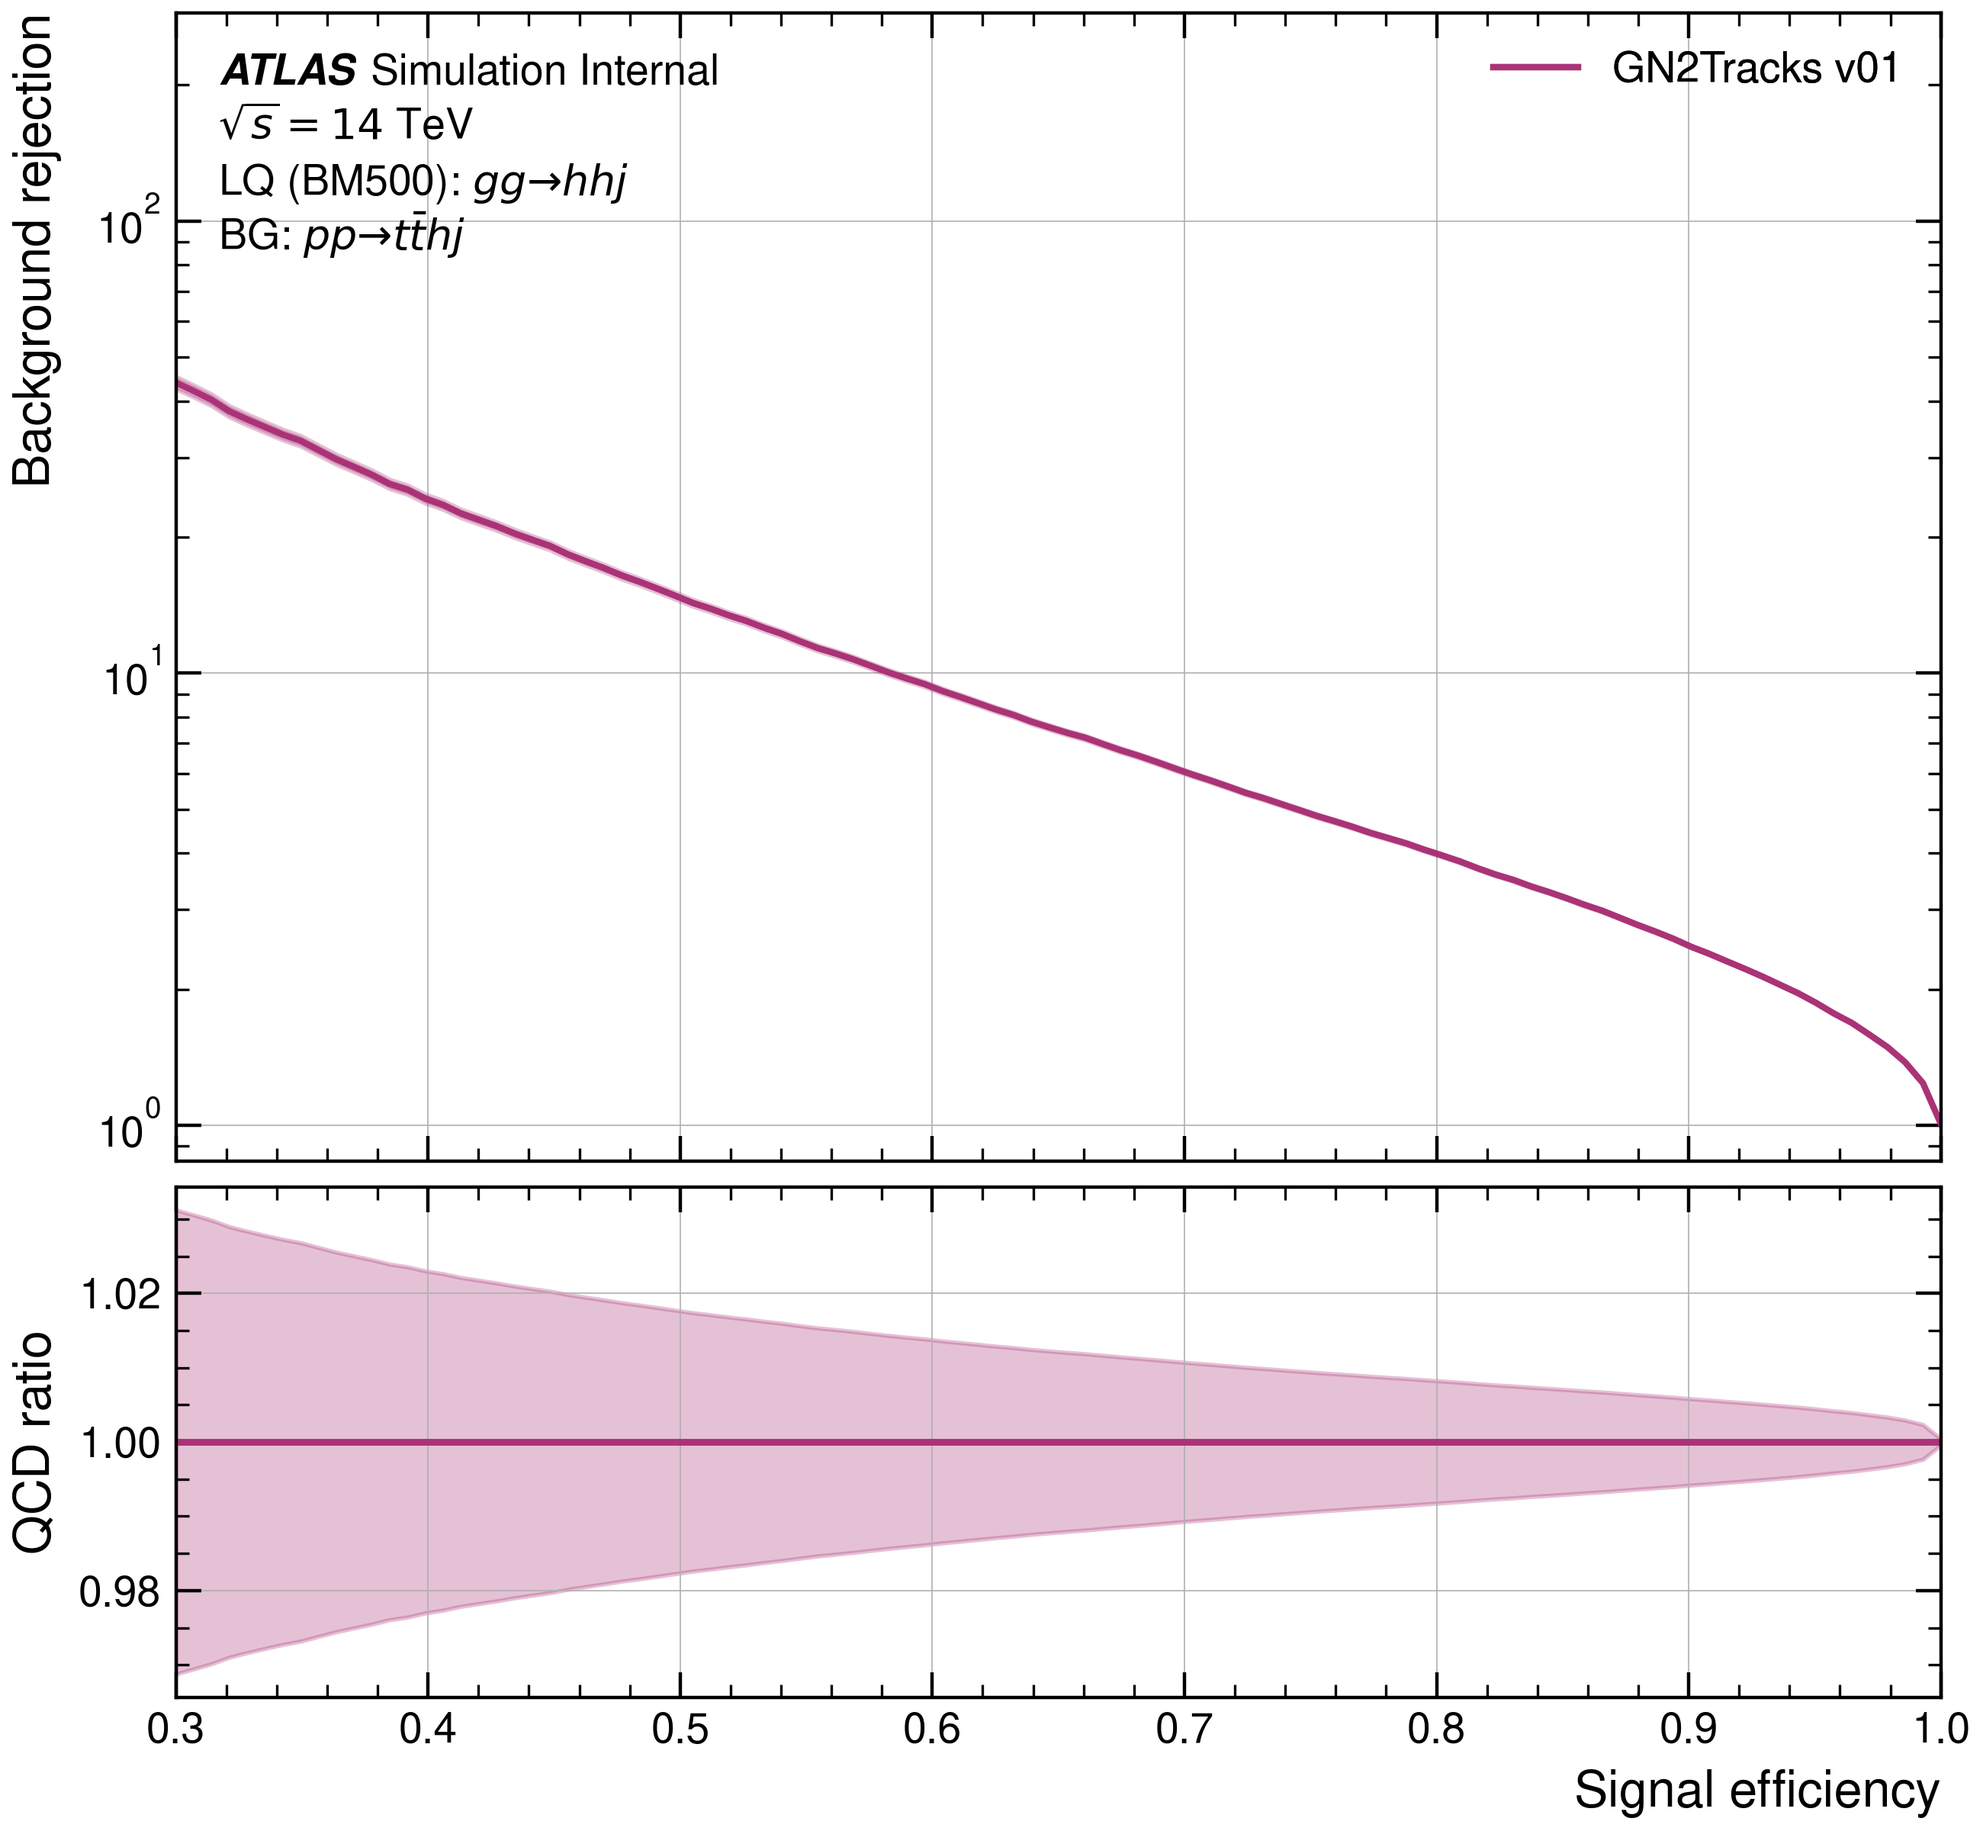
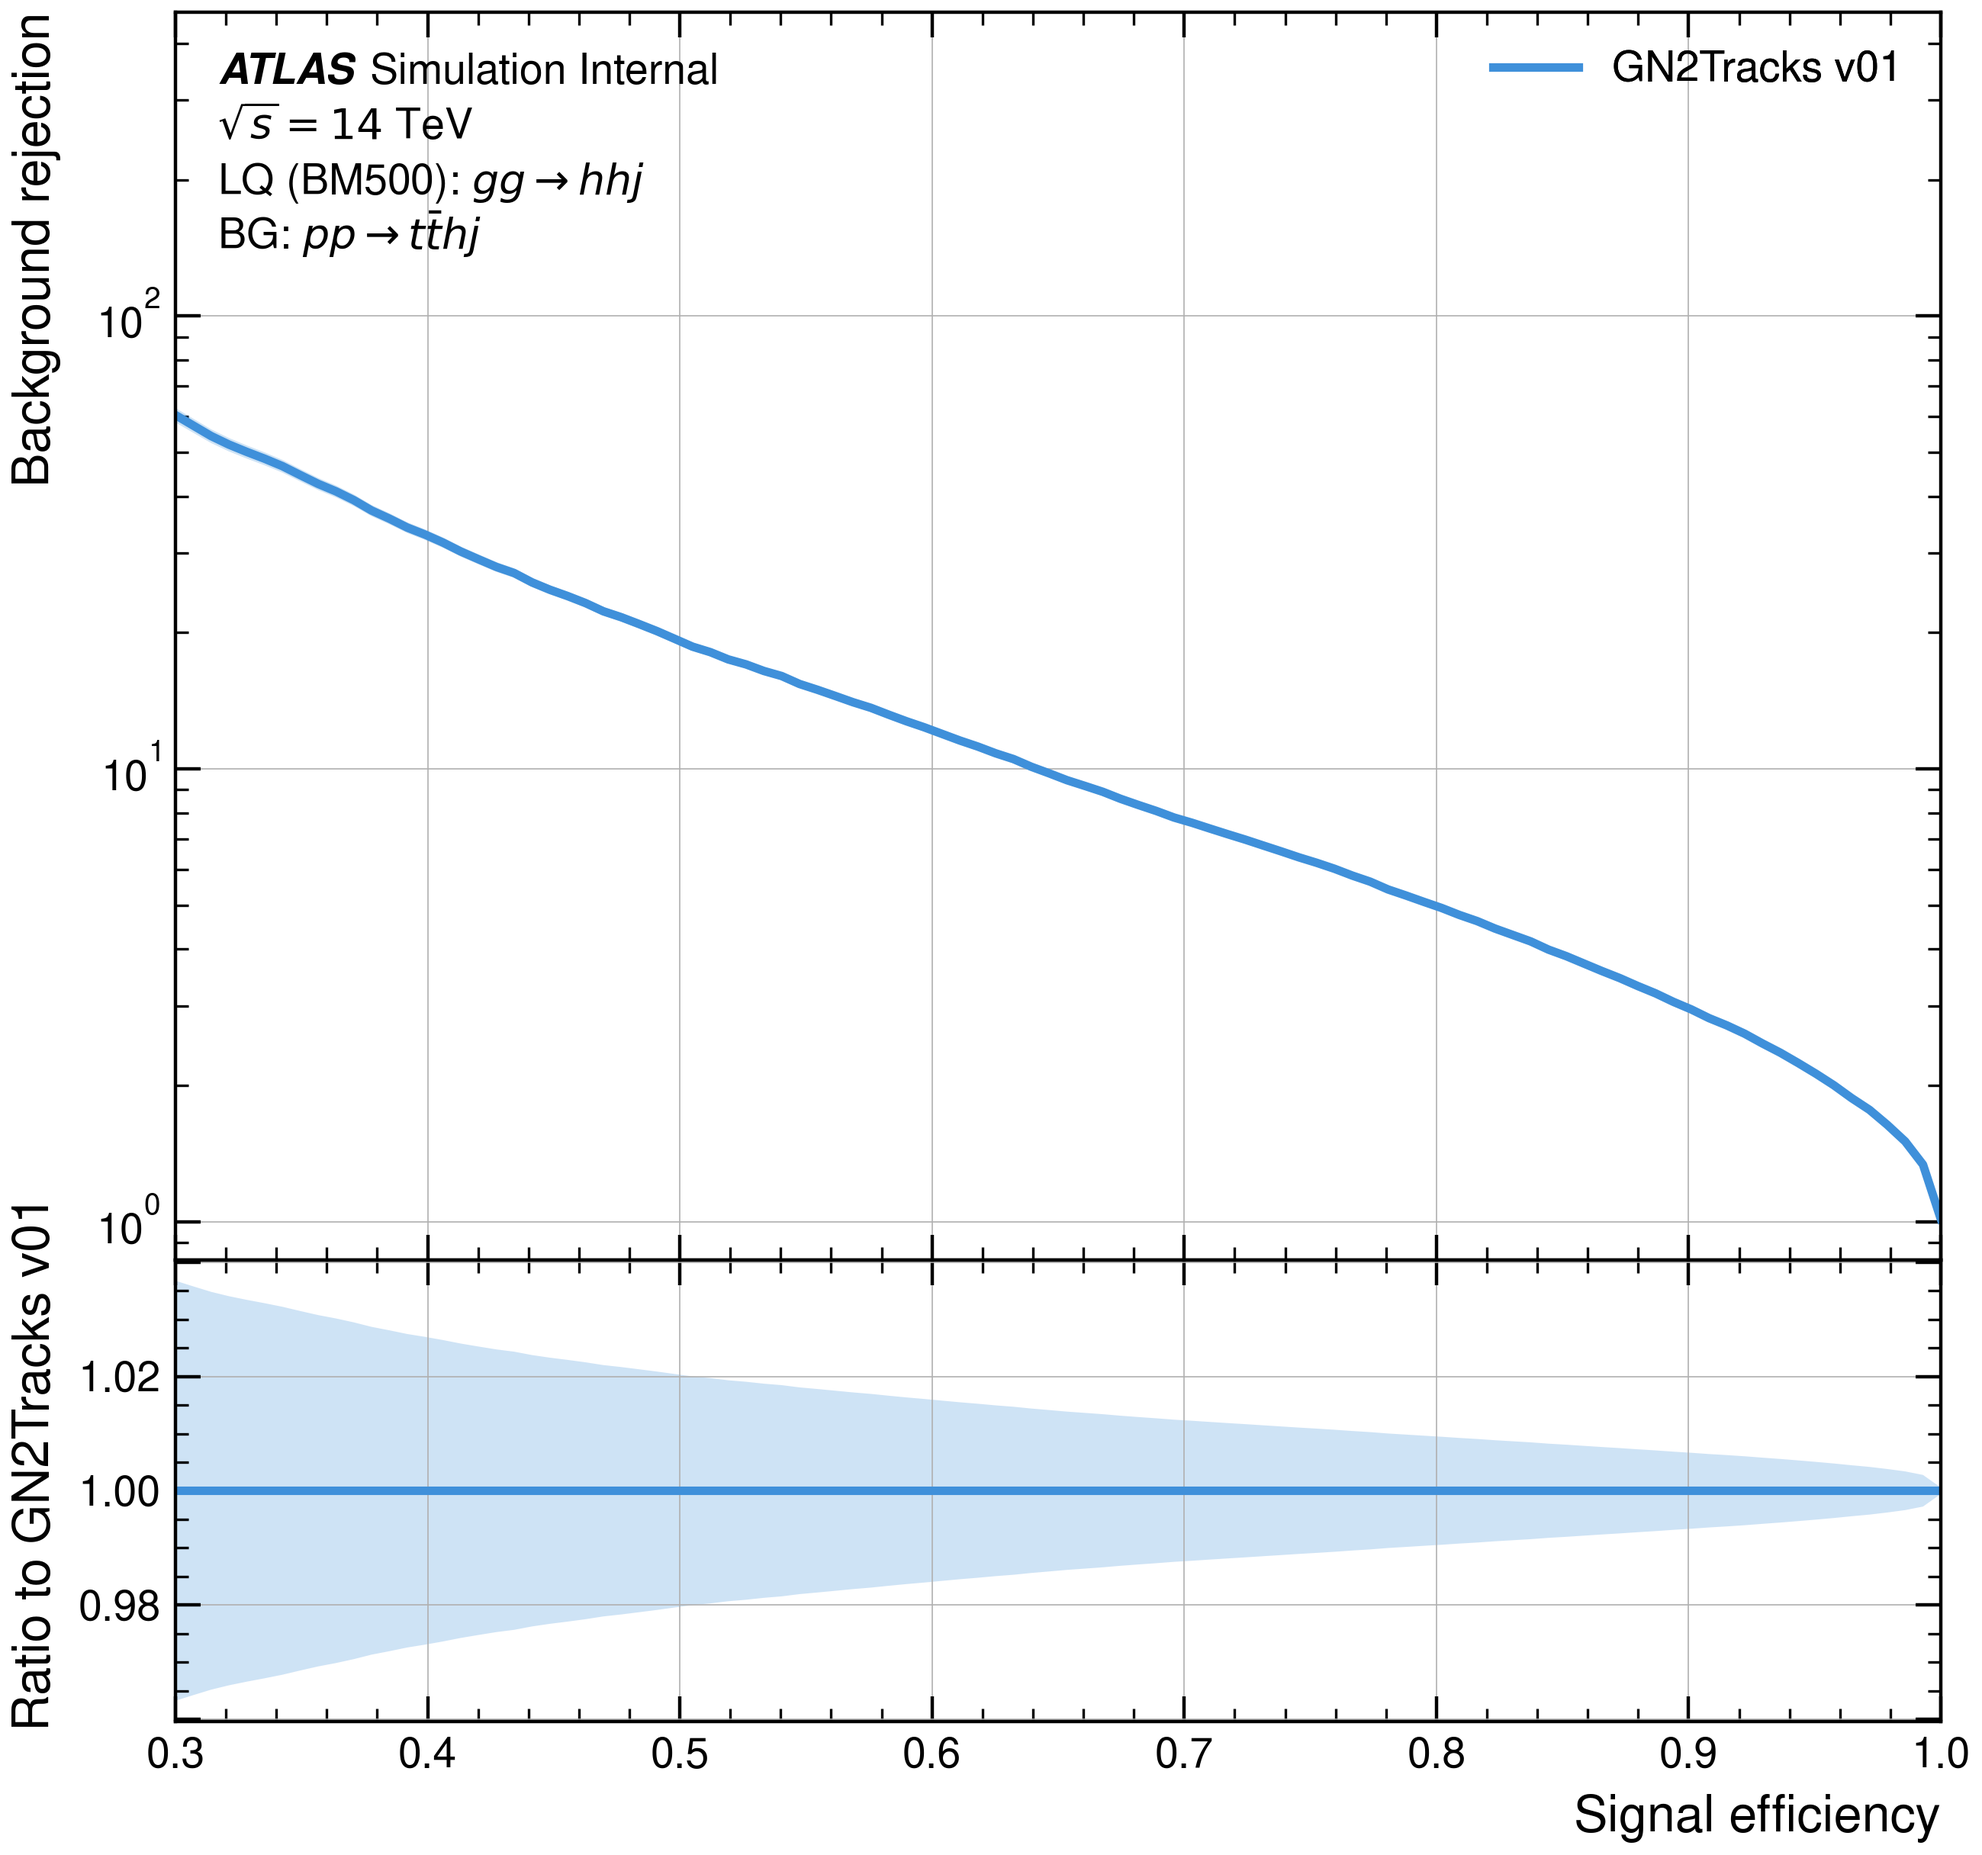
Entrenamiento sin Jets, pero cargados en los h5

diff --git a/RecAnalysis/ROC.py b/RecAnalysis/ROC.py
@@ -23,7 +23,7 @@ RUN_NAME = "GN2Tracks_v01"  # nombre de la corrida (-n de salt fit)
 
 # (time_stamp, época, etiqueta en el gráfico)
 data_list = [
-    ("20261104-T200117", "047", "GN2Tracks v01"),
+    ("20261105-T131007", "049", "GN2Tracks v01"),
 ]
 
 SIG_EFF = np.linspace(0.3, 1.0, 100)  # eficiencias de señal donde se evalúa el rechazo
